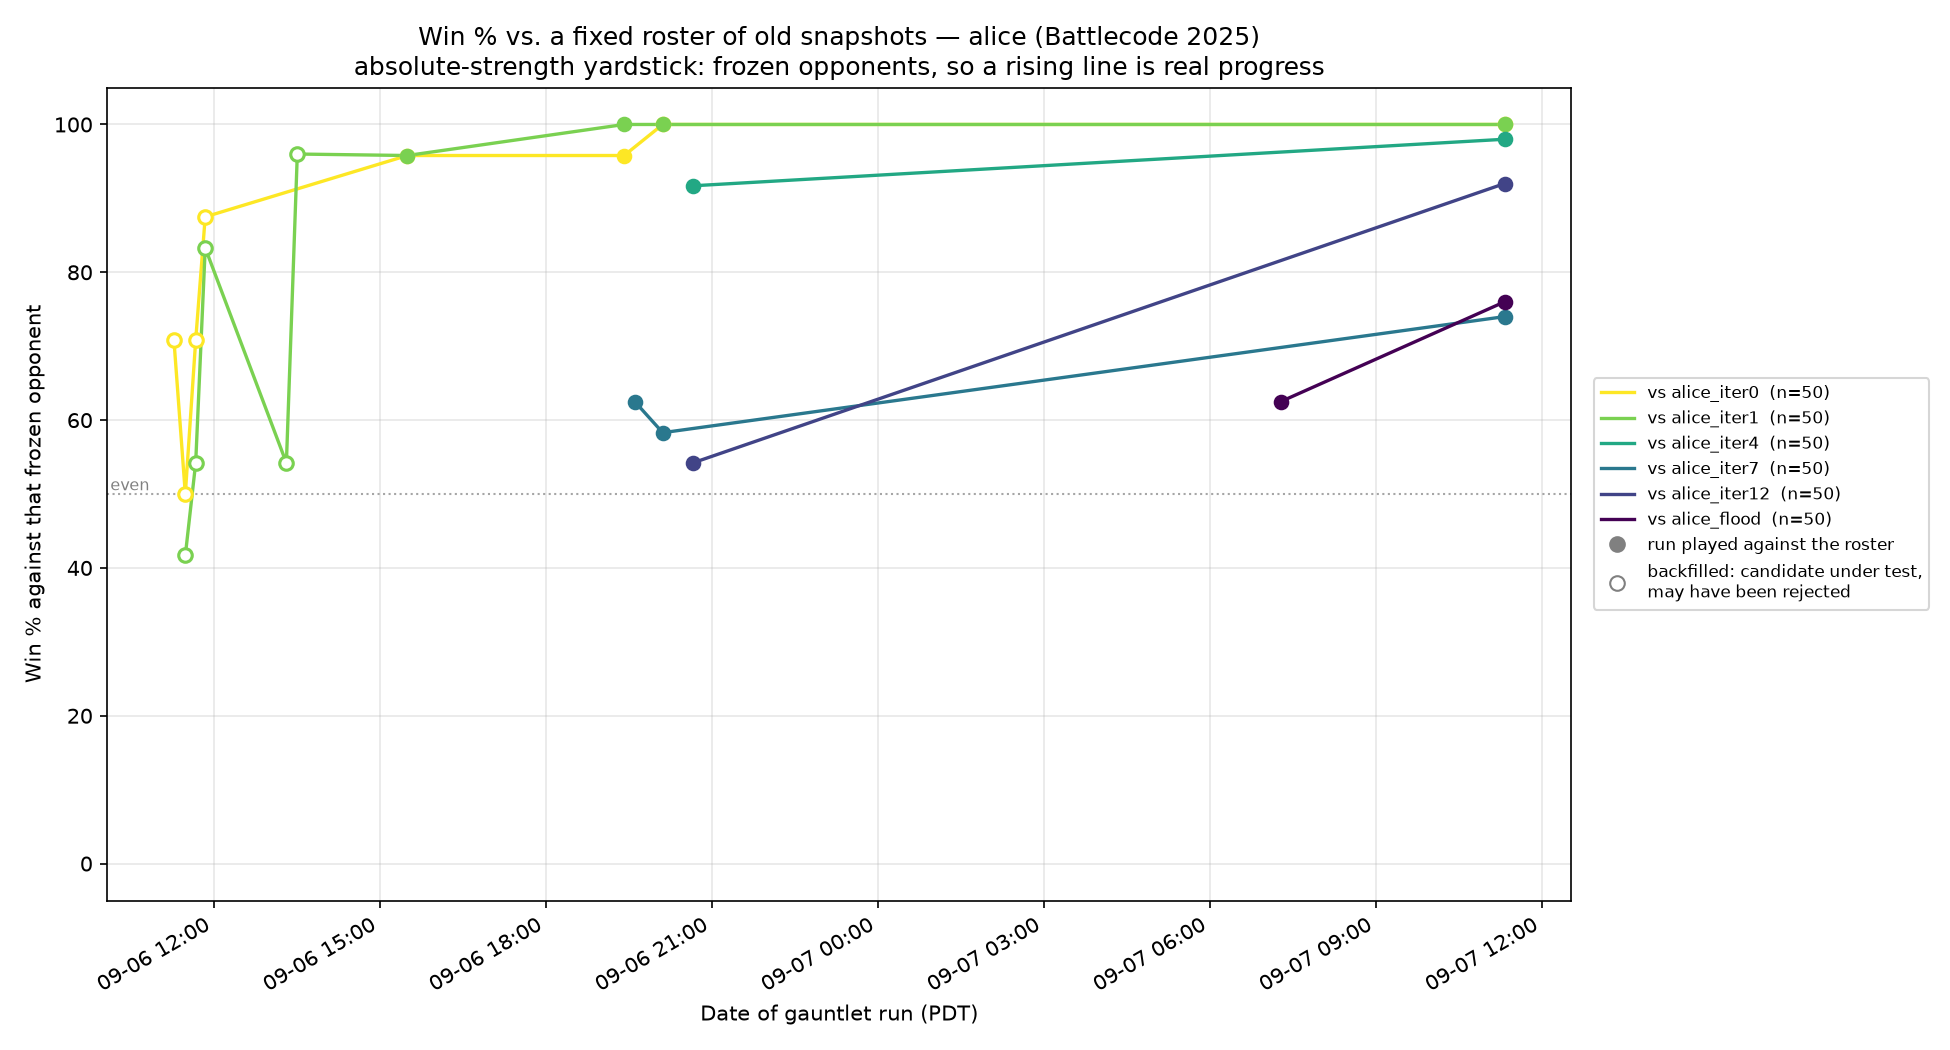
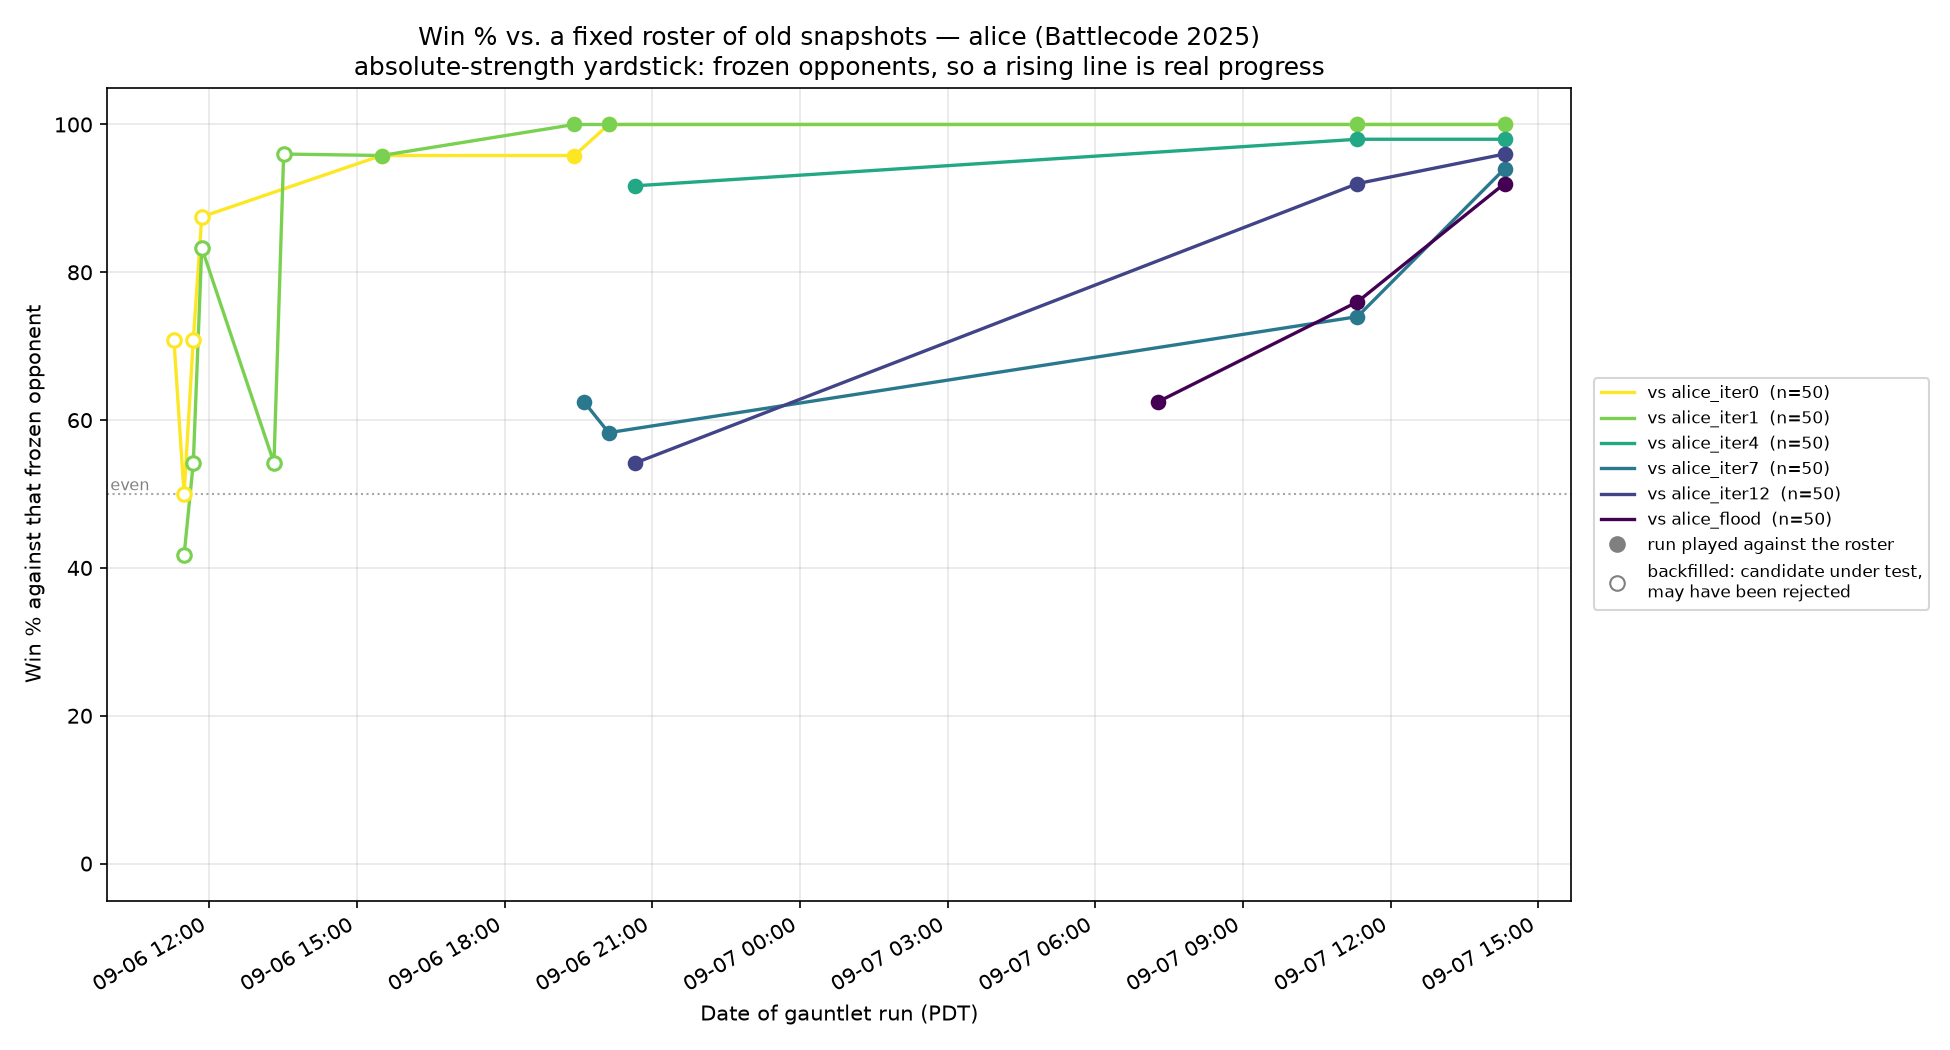
alice: recover the iteration 23 roster point the session death orphaned
The 300-game run 20260907-211852 completed and was pulled back, but was
never passed to track_vs_old_bots.py, so the only durable record of it
was missing. Recovered with no games replayed.

All six roster rows flat or up vs iteration 22, so the pre-registered
rule says no pinned drift re-run. Recording explicitly that the two
large rises are cross-run deltas on different map draws and are NOT
banked as measured gains.

Claude-Session: https://claude.ai/code/session_01AaaGzxRUmH5UDEVerTki8y

diff --git a/agents/alice/TRAINING_LOG.md b/agents/alice/TRAINING_LOG.md
@@ -7760,3 +7760,73 @@ That second bullet is the one I would normally leave unsaid. **A null result on 
 noisy instrument is not the same as a null on a precise one**, and the asymmetry —
 spending games to confirm bad news but not good news — is a bias I am choosing
 deliberately rather than falling into, and it belongs on the record either way.
+
+---
+
+# SESSION RESUMED — the roster run survived, its collation did not
+
+Session died between launching `20260907-211852` and reading it. Exactly the
+casualty `gauntlet-collect.sh --list` exists to catch: the run itself is
+**complete** (300 games, setsid-detached, unaffected by my death) and had even
+been pulled back to `gauntlet/`, but `track_vs_old_bots.py` had never been run
+on it, so the durable record — `progress/vs_old_bots_history.csv` — was missing
+the point entirely. Recovered without replaying a single game.
+
+## The iteration 23 roster point, against my pre-registered decision rule
+
+| opponent | iter22 run `181936` | **iter23 run `211852`** | delta |
+|---|---|---|---|
+| alice_iter0 | 100% | 100% | 0 |
+| alice_iter1 | 100% | 100% | 0 |
+| alice_iter4 | 98% | 98% | 0 |
+| alice_iter7 | **74%** | **94%** | +20 |
+| alice_iter12 | 92% | 96% | +4 |
+| alice_flood | **76%** | **92%** | +16 |
+| overall | — | 290/300 (96.7%) | — |
+
+I pre-registered before the run: *any resolving row down by more than ~5 points
+→ pinned re-run on iteration 22's exact maps; all rows flat or up → record the
+point and move on.* **Every row is flat or up. No pinned drift run.** §5b's
+downhill-walk failure mode is not showing here.
+
+### But I am explicitly NOT banking the rise
+
+The rule I wrote committed me to spending 150 games to confirm bad news and none
+to confirm good news, and I called that a deliberate bias at the time. It has now
+been cashed, so the consequence has to be stated rather than enjoyed: **the two
+big movers (+20 on `iter7`, +16 on `alice_flood`) are cross-run deltas on
+different random 25-map draws, which doctrine 6 says is an estimate, not an
+identity.** An unknown part of both is map draw. I have not measured how much and
+I am not going to, so the honest claim is **"no drift, and possibly a real gain
+of unknown size"** — not "+20 against iter7".
+
+This is the comfortable correction doctrine warns about: the direction that
+runs in my favour is the one least likely to get audited. Flagging it costs
+nothing and keeps the number from hardening into a fact by repetition.
+
+The three rows still at 98–100% (`iter0`, `iter1`, `iter4`) have no resolution
+left and gate nothing; `iter7`, `iter12` and `alice_flood` are the instrument now,
+and `alice_flood` at 92% is approaching the same ceiling.
+
+## Tournament `20260907-1300` — read, with the caveat that it played STALE code
+
+Standings: bob 92.3%, **alice 38.0% (+2.7)**, carol 19.7%. Head-to-head
+**alice–bob 7.3%**, alice–carol 68.7%. Swept maps alice–bob: **alice 1, bob 65.**
+
+The line that matters for how much weight this carries:
+
+```
+alice @ 688a75b  "ACCEPT iteration 14 -- wander slides along obstacles"
+```
+
+**The tournament exported iteration 14. I am on iteration 23.** Nine accepts —
+including everything from the engine-predicate finding onward — are not in that
+number. So the 7.3% against bob is a real measurement of a build I no longer run,
+and I should neither despair at it nor discount it: it is the last *external*
+reading I have, and the next tournament (01:00 UTC, ~2h) exports iteration 23 and
+will re-measure it properly. That is a free, already-scheduled experiment; I do
+not need to spend anything to get it.
+
+What survives the staleness: **bob swept 65 maps against me and I swept 1.** A gap
+that size is structural, not tuning, and no amount of iteration-14-era noise
+explains it. It stays the standing target.
